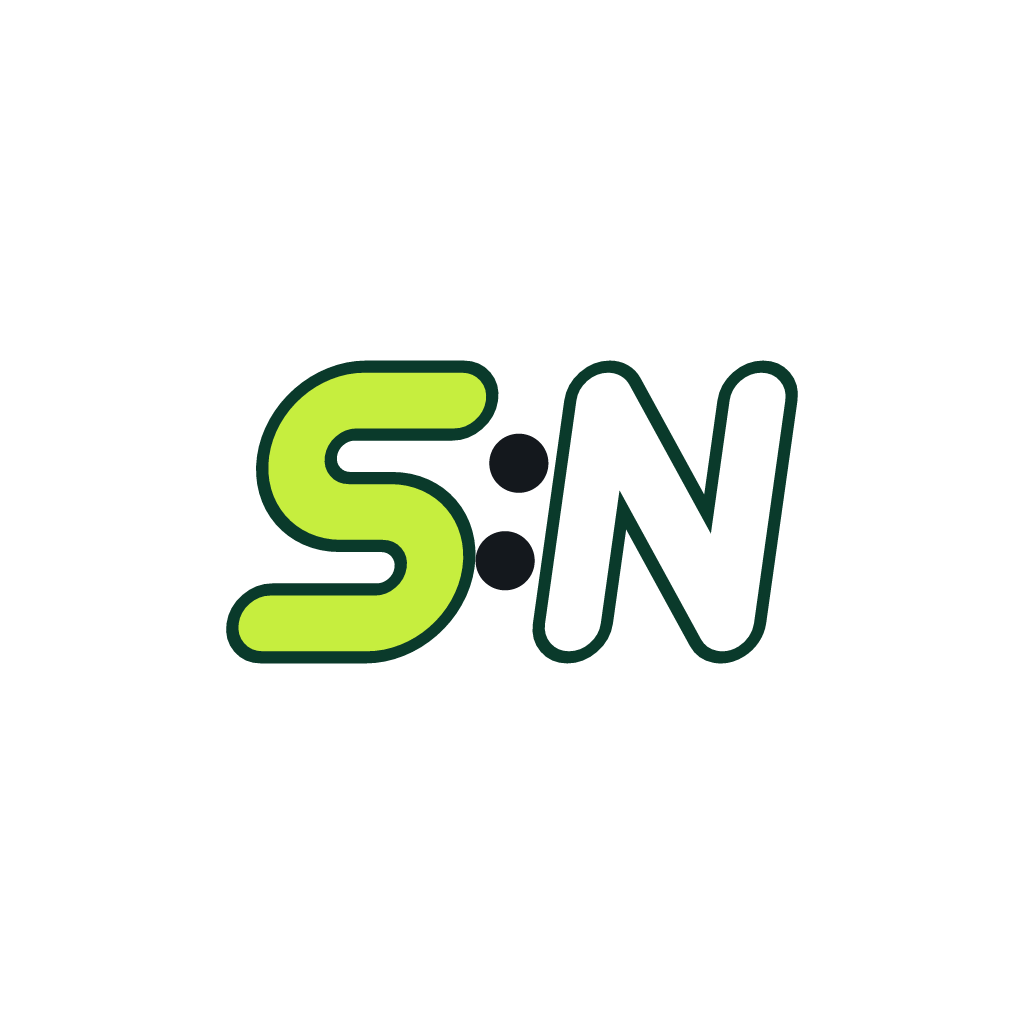
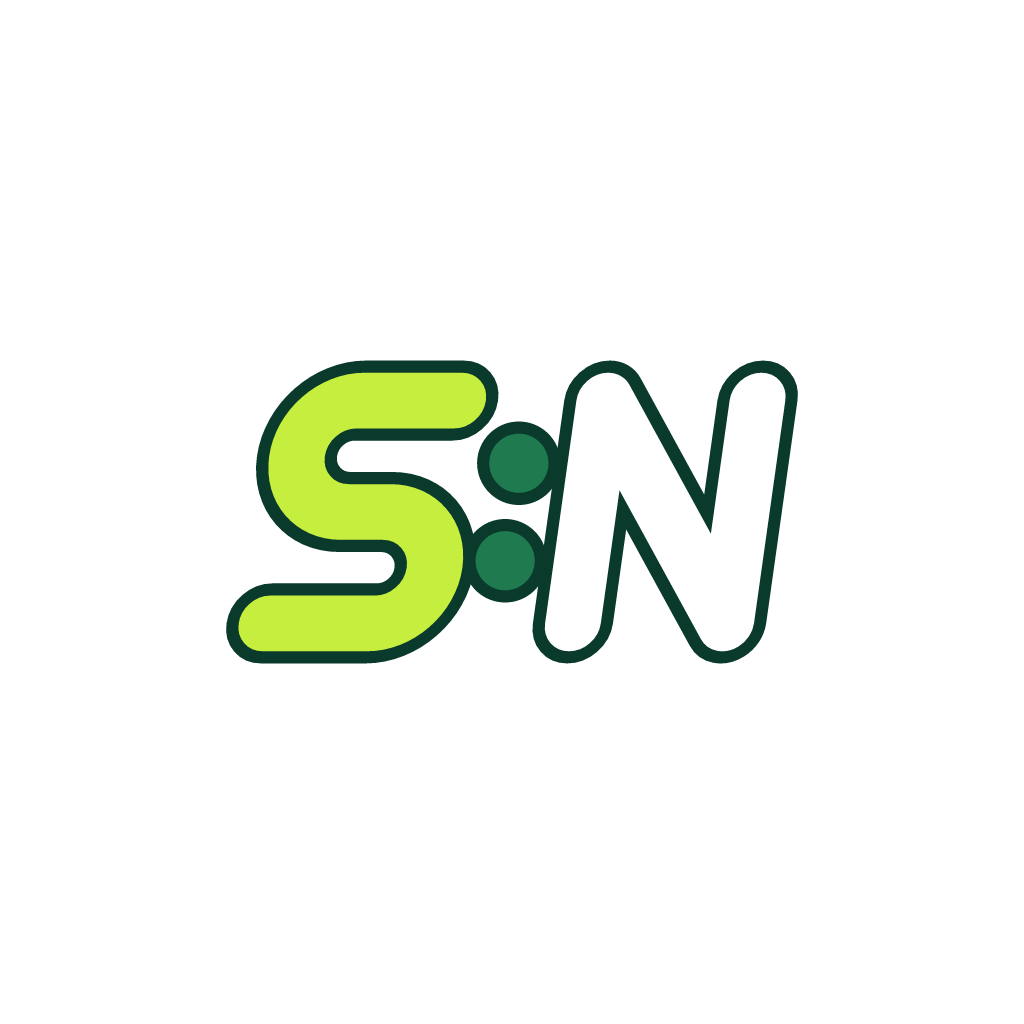
feat(brand): option 2f — green n and colon, outlined like every letter

Changed region(s): [[0.4375, 0.4062, 0.5625, 0.5938]]

diff --git a/src/components/LaunchAnimation.tsx b/src/components/LaunchAnimation.tsx
@@ -29,13 +29,13 @@ import { WORDMARK } from '../brand/wordmark';
 
 const TILE = '#F3F0E8'; // the app icon's cream (brand-cream.md), so icon → launch is seamless
 const KEY = '#0A3A2B'; // the letters' outline
-const INK = '#14181D'; // the colon
+const MID = '#1F7A50'; // the colon (option 2f), outlined like the letters
 const LIME = '#C6EE3E';
 const MARK = 96; // px
 const K = MARK / 200; // the mark's 200-unit drawing → px
 const SKEW = -8;
 const lean = Math.tan((SKEW * Math.PI) / 180);
-const DOT_R = 8.5 * K;
+const DOT_R = 12 * K; // the dot with its outline (8.5 + the 3.5 outline)
 const GAP = 14;
 const WORD_W = 196; // the wordmark's width at this size (fixed, so the start is centred)
 const SHIFT = (WORD_W + GAP) / 2;
@@ -169,7 +169,7 @@ export function LaunchAnimation({ fontsReady = true }: { fontsReady?: boolean })
   const lineStyle = WEB ? web('line', [tr.line], ([v]) => ({ transform: [{ scaleX: v }] })) : { transform: [{ scaleX: n(tr.line) }] };
   const dotStyle = (key: 'dot1' | 'dot2', track: Track) => (WEB ? web(key, [track], ([v]) => ({ transform: [{ scale: v }] })) : { transform: [{ scale: n(track) }] });
   const dot = (key: 'dot1' | 'dot2', cx: number, cy: number, track: Track) => (
-    <Animated.View style={[st.dot, { left: (cx + lean * (cy - 100) - 8.5) * K, top: (cy - 8.5) * K }, dotStyle(key, track) as object]} />
+    <Animated.View style={[st.dot, { left: (cx + lean * (cy - 100) - 12) * K, top: (cy - 12) * K }, dotStyle(key, track) as object]} />
   );
   return (
     <Animated.View pointerEvents="none" style={[StyleSheet.absoluteFill, st.wrap, overlayStyle as object]} accessibilityElementsHidden importantForAccessibility="no-hide-descendants">
@@ -200,6 +200,6 @@ export function LaunchAnimation({ fontsReady = true }: { fontsReady?: boolean })
 const st = StyleSheet.create({
   wrap: { backgroundColor: TILE, alignItems: 'center', justifyContent: 'center', zIndex: 1000, elevation: 1000 },
   row: { flexDirection: 'row', alignItems: 'center', gap: GAP },
-  dot: { position: 'absolute', width: DOT_R * 2, height: DOT_R * 2, borderRadius: DOT_R, backgroundColor: INK },
+  dot: { position: 'absolute', width: DOT_R * 2, height: DOT_R * 2, borderRadius: DOT_R, backgroundColor: MID, borderWidth: 3.5 * K, borderColor: KEY },
   line: { height: 6, borderRadius: 3, backgroundColor: KEY, marginTop: 4, transformOrigin: 'left' },
 });

diff --git a/src/components/Wordmark.tsx b/src/components/Wordmark.tsx
@@ -1,6 +1,6 @@
 /** The SportnNote wordmark, option 2d (founder 2026-11-08,
  *  docs/security/breaks/brand-cream.md): lime "Sport" and white "Note", each
- *  with a thin dark green outline, and a plain near-black "n", for a cream
+ *  with a thin dark green outline, and a green "n" outlined the same way (2f), for a cream
  *  background. Drawn from vector shapes made from the brand font
  *  (src/brand/wordmark.ts), so it looks the same on every platform. The
  *  outlines are a layer underneath and the letters sit on top, so the n is
@@ -11,7 +11,8 @@ import { WORDMARK } from '../brand/wordmark';
 
 const LIME = '#C6EE3E';
 const WHITE = '#FFFFFF';
-const INK = '#14181D';
+/** the n (and the colon) — option 2f, outlined like every other letter (BC8) */
+const MID = '#1F7A50';
 const KEY = '#0A3A2B';
 
 /** `height` in points; the width follows the word. */
@@ -20,9 +21,10 @@ export function Wordmark({ height = 28 }: { height?: number }) {
   return (
     <Svg width={width} height={height} viewBox={`0 0 ${WORDMARK.width} ${WORDMARK.height}`} accessibilityLabel="SportnNote" accessibilityRole="image">
       <Path d={WORDMARK.parts.sport} fill={KEY} stroke={KEY} strokeWidth={WORDMARK.stroke} strokeLinejoin="round" />
+      <Path d={WORDMARK.parts.n} fill={KEY} stroke={KEY} strokeWidth={WORDMARK.stroke} strokeLinejoin="round" />
       <Path d={WORDMARK.parts.note} fill={KEY} stroke={KEY} strokeWidth={WORDMARK.stroke} strokeLinejoin="round" />
       <Path d={WORDMARK.parts.sport} fill={LIME} />
-      <Path d={WORDMARK.parts.n} fill={INK} />
+      <Path d={WORDMARK.parts.n} fill={MID} />
       <Path d={WORDMARK.parts.note} fill={WHITE} />
     </Svg>
   );

diff --git a/src/components/Logo.tsx b/src/components/Logo.tsx
@@ -1,7 +1,7 @@
 /** The SportnNote logo, option 2d (founder 2026-11-08,
  *  docs/security/breaks/brand-cream.md): the "S:N" scoreline on a cream tile —
  *  a lime "S" and a white "N", each with a thin dark green outline, leaning
- *  forward like the italic headlines, and a plain near-black colon. Same
+ *  forward like the italic headlines, and a green colon outlined the same way (2f). Same
  *  drawing as every app/web icon — see scripts/build-icons.mjs. */
 import React from 'react';
 import Svg, { Rect, Path, Circle, G } from 'react-native-svg';
@@ -10,7 +10,8 @@ const TILE = '#F3F0E8';
 const LIME = '#C6EE3E';
 const WHITE = '#FFFFFF';
 const KEY = '#0A3A2B';
-const INK = '#14181D';
+/** the colon — option 2f: green, outlined like the letters */
+const MID = '#1F7A50';
 /** The lean, in degrees (negative = forward). */
 const SKEW = -8;
 const SW = 16;
@@ -34,8 +35,12 @@ export function Logo({ size = 32 }: { size?: number }) {
           {line(S_PATH, LIME, SW)}
           {line(N_PATH, WHITE, SW)}
         </G>
-        <Circle cx={dotX(86)} cy={86} r={SW / 2 + 0.5} fill={INK} />
-        <Circle cx={dotX(114)} cy={114} r={SW / 2 + 0.5} fill={INK} />
+        {[86, 114].map((cy) => (
+          <React.Fragment key={cy}>
+            <Circle cx={dotX(cy)} cy={cy} r={KEY_W / 2 + 0.5} fill={KEY} />
+            <Circle cx={dotX(cy)} cy={cy} r={SW / 2 + 0.5} fill={MID} />
+          </React.Fragment>
+        ))}
       </G>
     </Svg>
   );

diff --git a/docs/security/breaks/brand-cream.md b/docs/security/breaks/brand-cream.md
@@ -23,4 +23,5 @@ Where it applies:
 | BC4 | The black "n" on the dark green Home banner is unreadable. | Legibility | On green, the logo and name sit on a cream badge, never straight on green. Tested. |
 | BC5 | The native splash (green, built into APK 41) flashes before the cream launch screen. | Polish | `app.json` splash and the adaptive-icon background become cream, effective from the next APK. Until then APK 41 shows a brief green splash before the cream animation; the web has no native splash. Stated in the release note. |
 | BC6 | The favicon or app icon stays cached in its old look. | Polish | The favicon gets a new name (`favicon-v4.png`); the app icon updates with the next APK/store build. |
+| BC8 | Founder 2026-11-08 (option 2f): the near-black n looked out of line with the outlined letters. | Consistency | The n and the colon are now green `#1F7A50` with the same dark outline as every other letter, so all ten letters share the same weight and line. Tested. |
 | BC7 | The generated shapes drift from the real font, e.g. after an update. | Integrity | The generator reads the brand TTF already in the repo, and a test checks the module was made from it (font name and units). |

diff --git a/DEVLOG.md b/DEVLOG.md
@@ -13,6 +13,11 @@ verified. **Maintained continuously — new work is appended here as it ships.**
 
 ---
 
+### 2026-11-08 — Logo option 2f: the n and colon in green, outlined like every letter
+
+The founder found the near-black "n" out of line with the outlined letters. The "n" and the colon are now green `#1F7A50` with the same dark outline as every other letter, so all ten letters share one weight and line. This applies to the wordmark shapes, the website SVG, the icon script (icons and favicon rebuilt), `<Logo>` and the launch screen's animated dots (outline as a border, re-centred).
+- **Checks:** brand-cream.md BC8; tests updated; full suite green; demo-checked (launch, Home).
+
 ### 2026-11-08 — New logo and name: option 2d, on cream, everywhere
 
 The founder's design (docs/design/logo-options/cream-option-2d.png), on a cream `#F3F0E8` background:
